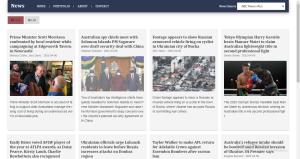
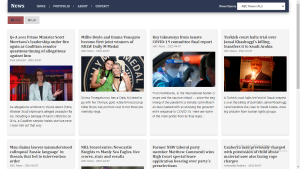
fix project image hover efect

diff --git a/css/main.css b/css/main.css
@@ -607,8 +607,13 @@ main {
 
 .case-study-section .project__container .item:hover .item__list, .case-study-section .project__container .item:hover .item__list--links {
   opacity: 1;
-  -webkit-transform: translateY(-30px);
-          transform: translateY(-30px);
+  -webkit-transform: translateY(-20px);
+          transform: translateY(-20px);
+}
+
+.case-study-section .project__container .item:hover .item__image {
+  -webkit-transform: translateY(-4px);
+          transform: translateY(-4px);
 }
 
 .case-study-section .project__container .item__header {
@@ -694,7 +699,7 @@ main {
   -webkit-box-align: center;
       -ms-flex-align: center;
           align-items: center;
-  margin-top: 0em;
+  margin-top: -1em;
   background-color: white;
   opacity: 0;
   -webkit-transform: translateY(0px);

diff --git a/css/_projects.scss b/css/_projects.scss
@@ -59,10 +59,10 @@
 			}
 			&:hover .item__list {
 				opacity: 1;
-				transform: translateY(-30px);
+				transform: translateY(-20px);
 			}
 			&:hover .item__image {
-				//opacity: 0.9;
+				transform: translateY(-4px);
 			}
 		}
 
@@ -123,7 +123,7 @@
 	display: none;
 	justify-content: flex-start;
 	align-items: center;
-	margin-top: 0em;
+	margin-top: -1em;
 	background-color: white;
 	opacity: 0;
 	transform: translateY(0px);

diff --git a/code/index.js b/code/index.js
@@ -133,7 +133,7 @@ const App = (function () {
 		},
 		{
 			title: "news",
-			desc: "Web Components and Public API ",
+			desc: "Web Components & Public API ",
 			tags: ["html", "css", "scss", "javascript", "API"],
 			links: [
 				{ text: "view project", href: "./news/index.html" },
